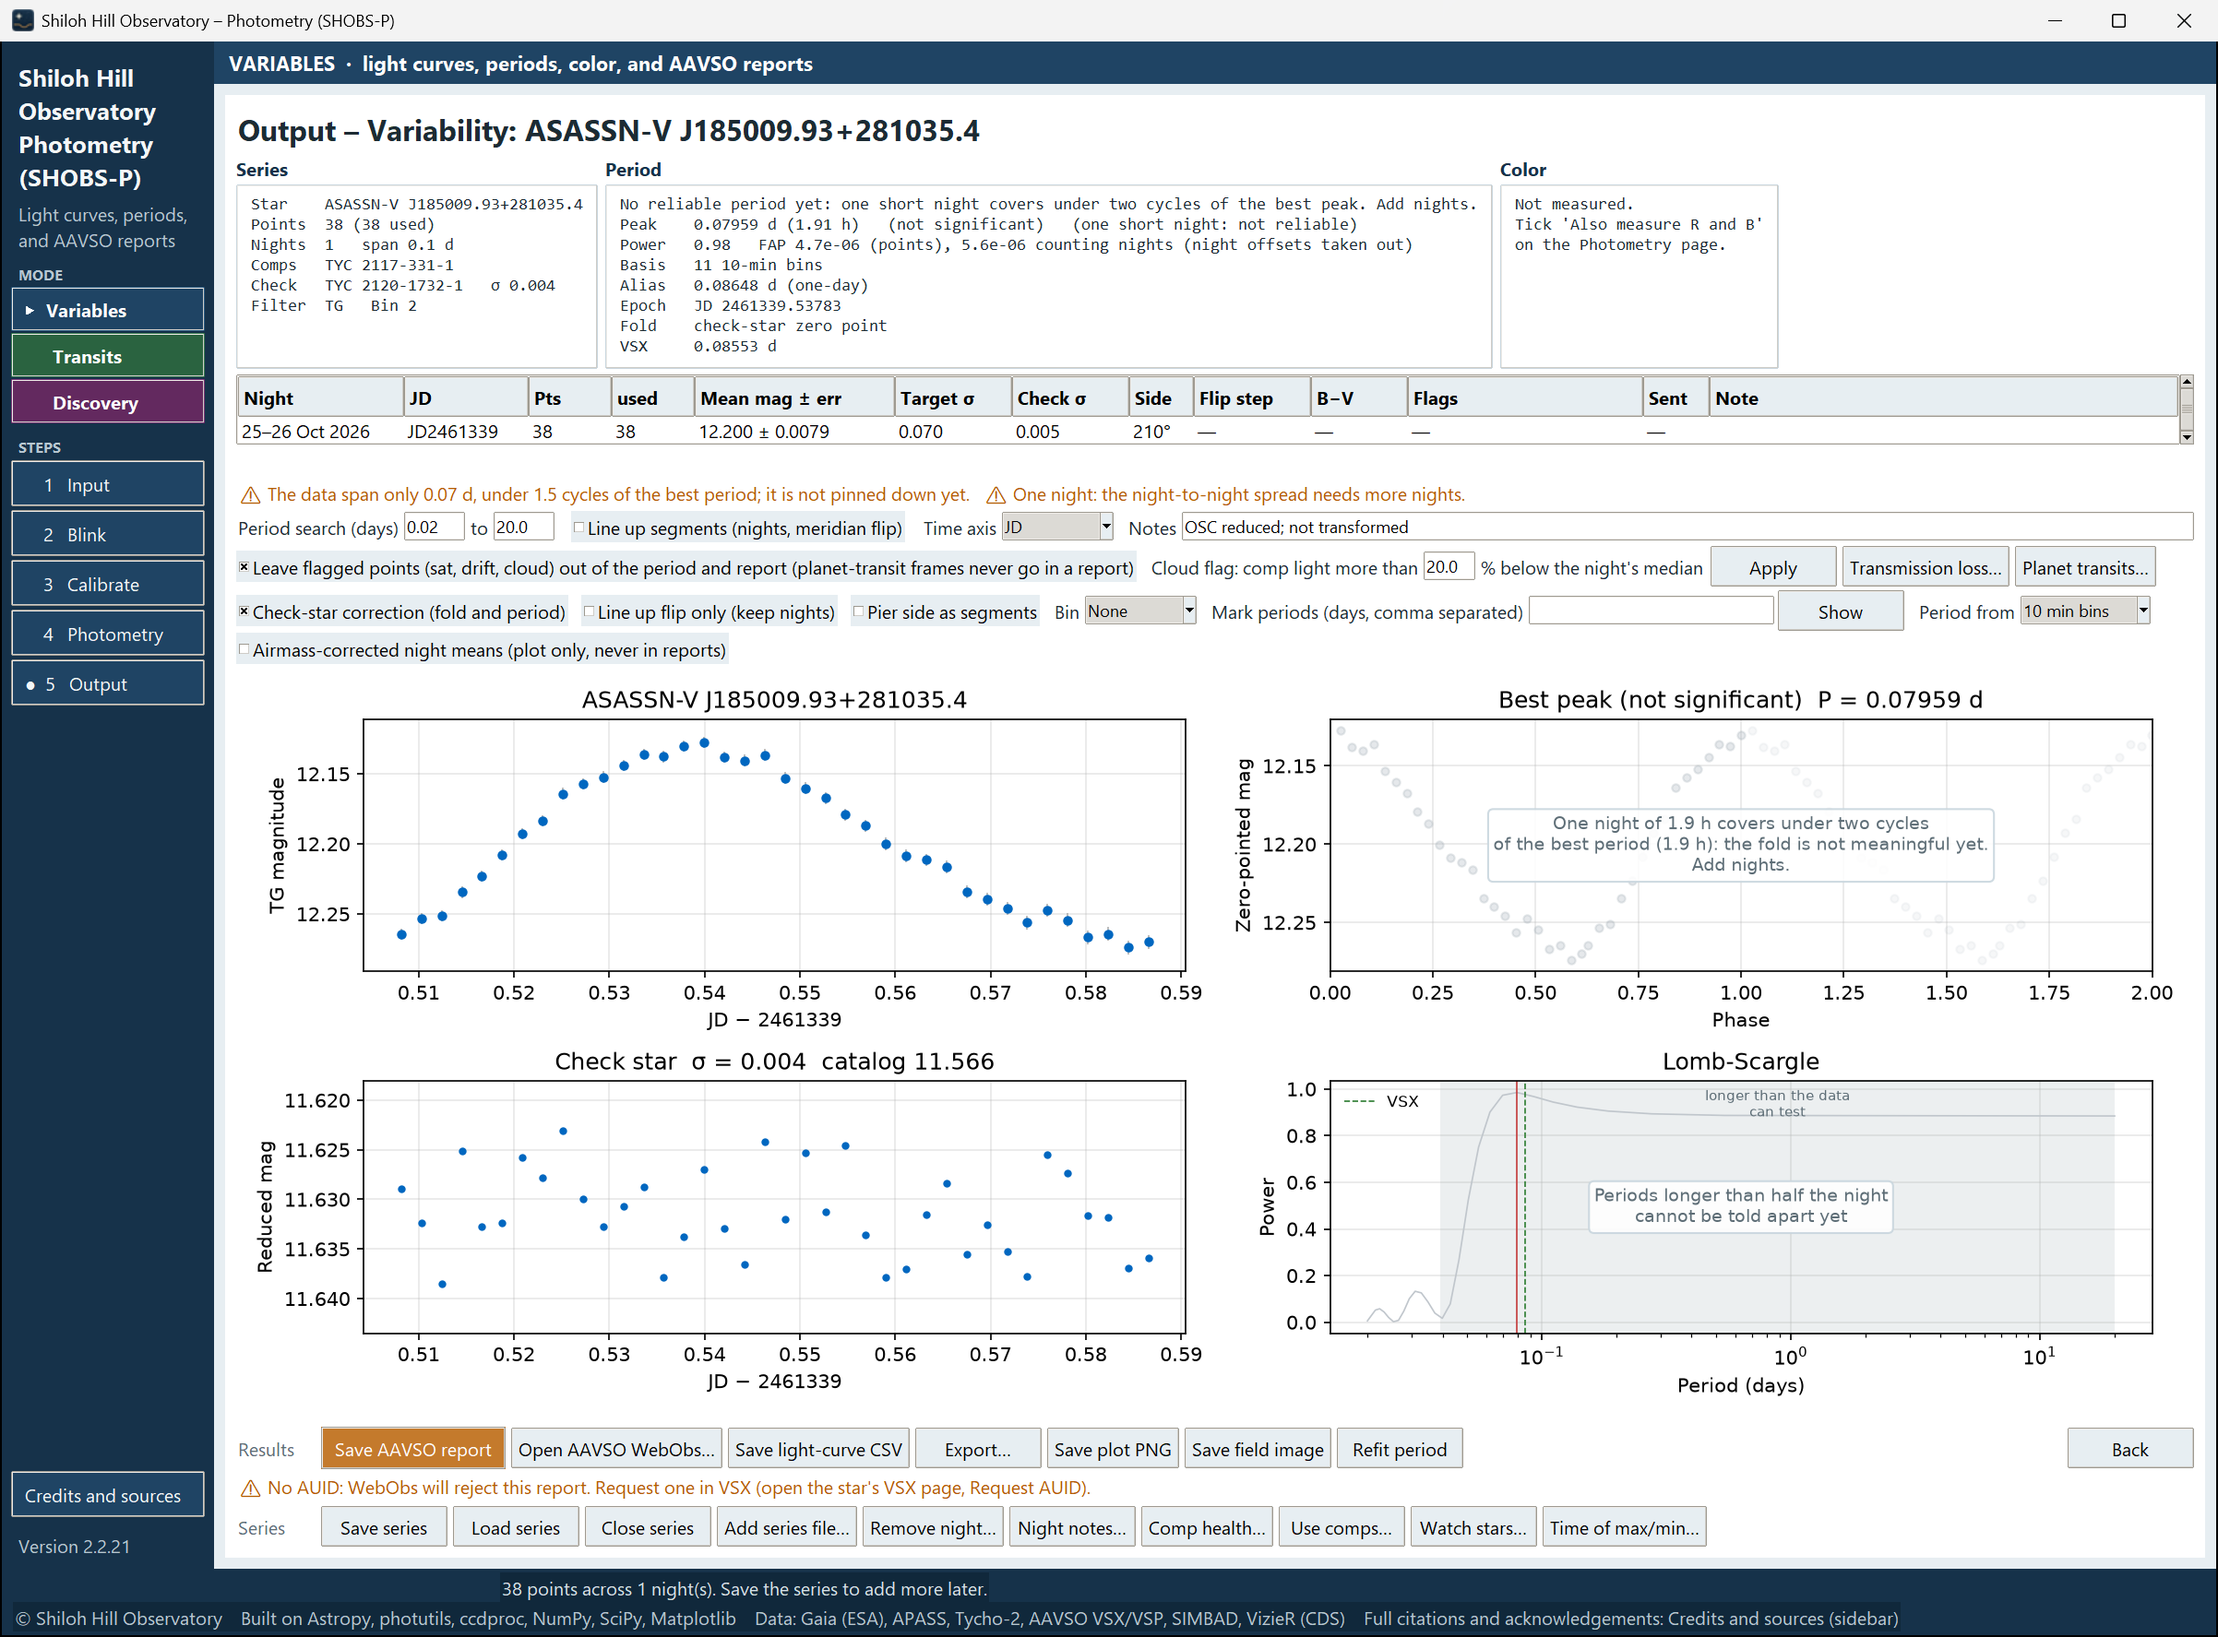
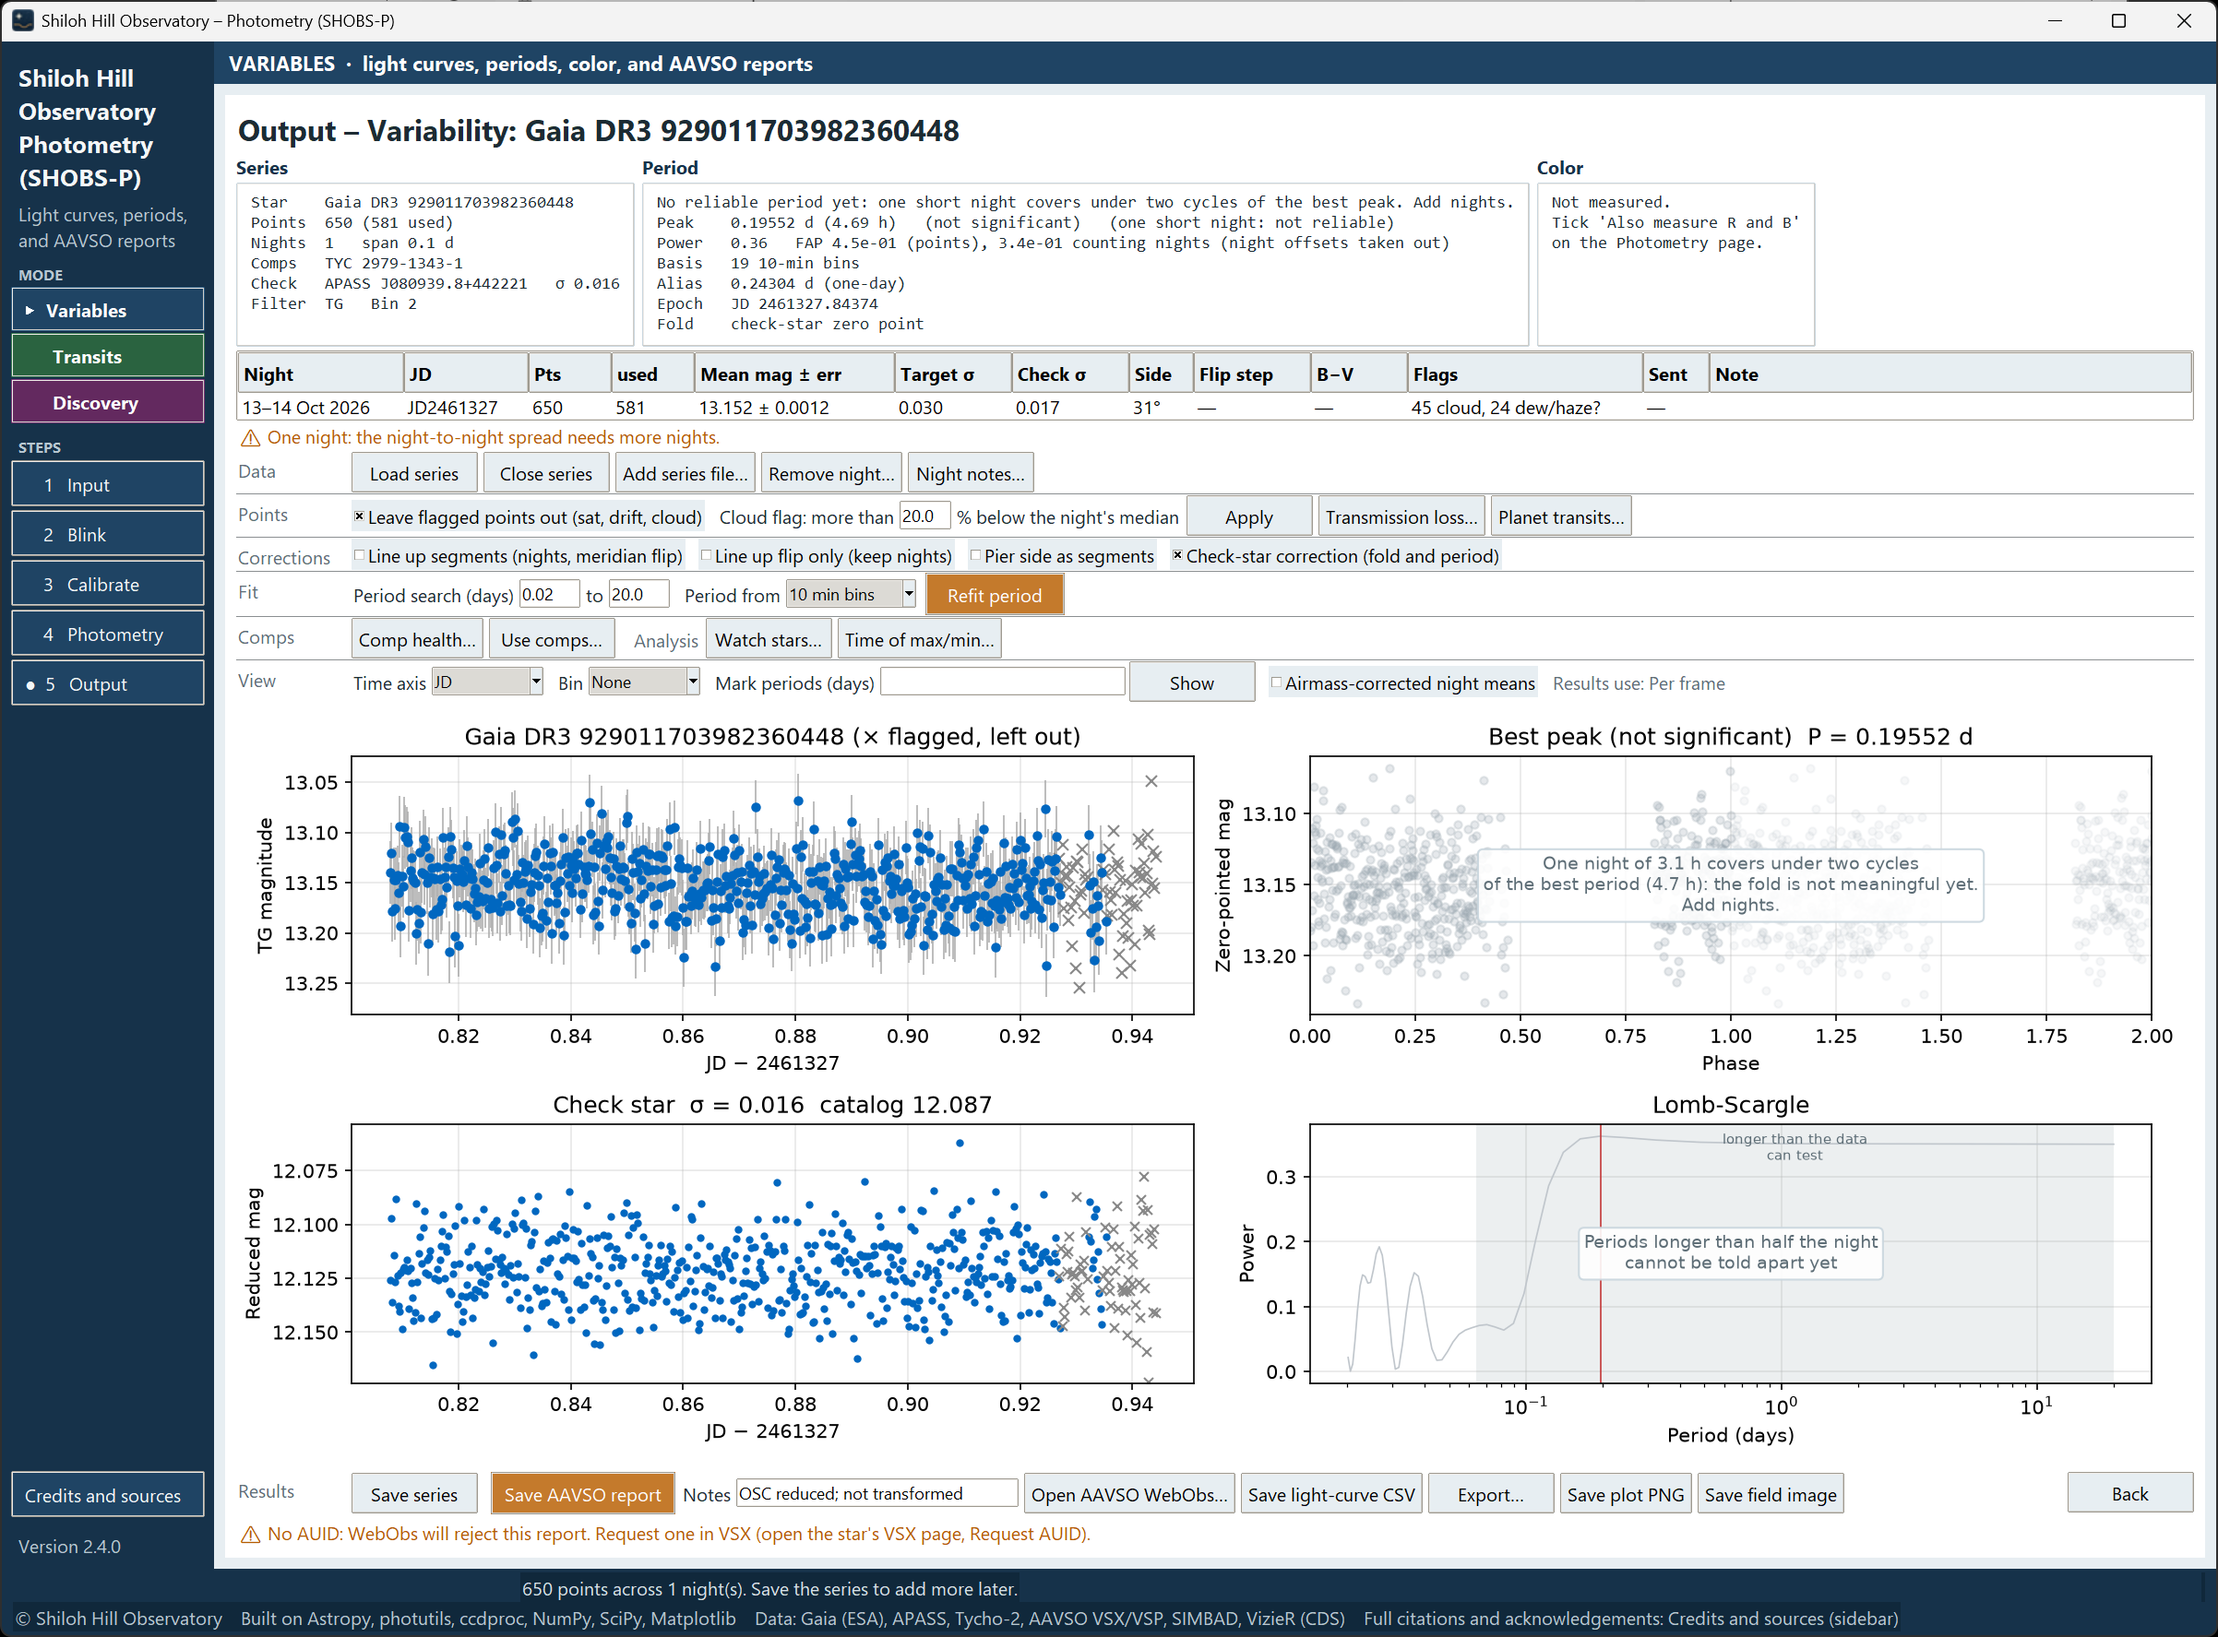
2.4.0 manual: 15-no-auid retaken on a new no-AUID star (Gaia DR3 929011703982360448 in the SZ Lyn field); ch 15 caption
Claude-Session: https://claude.ai/code/session_01FUz9tJRLobY69kEECSu3PH

diff --git a/docs/manual/_reshoots_240_a.md b/docs/manual/_reshoots_240_a.md
@@ -53,8 +53,9 @@ before; see nit below). NEW: 17-refit-needed.
 
 LEFT: 15-webobs-offer and NEW 09-field-image-saved: apps.aavso.org answered 500 for the AAVSO chart all session, so the
 Results row shows "Fetch AAVSO chart" instead of "Field image saved ✓"; retake once the chart comes back.
-15-no-auid: ASASSN-V J185009.93+281035.4 now has an AUID, so the No AUID line no longer appears; needs another star
-without an AUID (or keep the 2.3.6 shot with a note).
+15-no-auid: DONE later on 17 Nov. ASASSN-V J185009.93+281035.4 now has an AUID, so a new no-AUID case was used:
+Gaia DR3 929011703982360448 (VSX OID 3712278, DSCT|GDOR|SXPHE, G 13.0, no AUID), measured on the SZ Lyn 13–14 Oct
+frames (Bin 2, comp TYC 2979-1343-1, check APASS J080939.8+442221); ch 15 caption updated.
 SKIPPED (optional): 17-no-airmass: with the TOI-2046 series loaded, airmass stayed available after blanking the site
 (the series carries each night's site), so the grayed state did not show.
 

diff --git a/docs/manual/15-submit-to-aavso.md b/docs/manual/15-submit-to-aavso.md
@@ -64,7 +64,7 @@ and save the report again.
 The line does not appear when the star is not in VSX at all (then there is nothing to request in VSX).
 
 ![The Output page with the orange No AUID line under the Results row](img/15-no-auid.png)
-*The No AUID warning, here for ASASSN-V J185009.93+281035.4.*
+*The No AUID warning, here for Gaia DR3 929011703982360448, a δ Scuti-type star in VSX next to SZ Lyn that has no AUID yet.*
 
 ### Questions before saving
 
